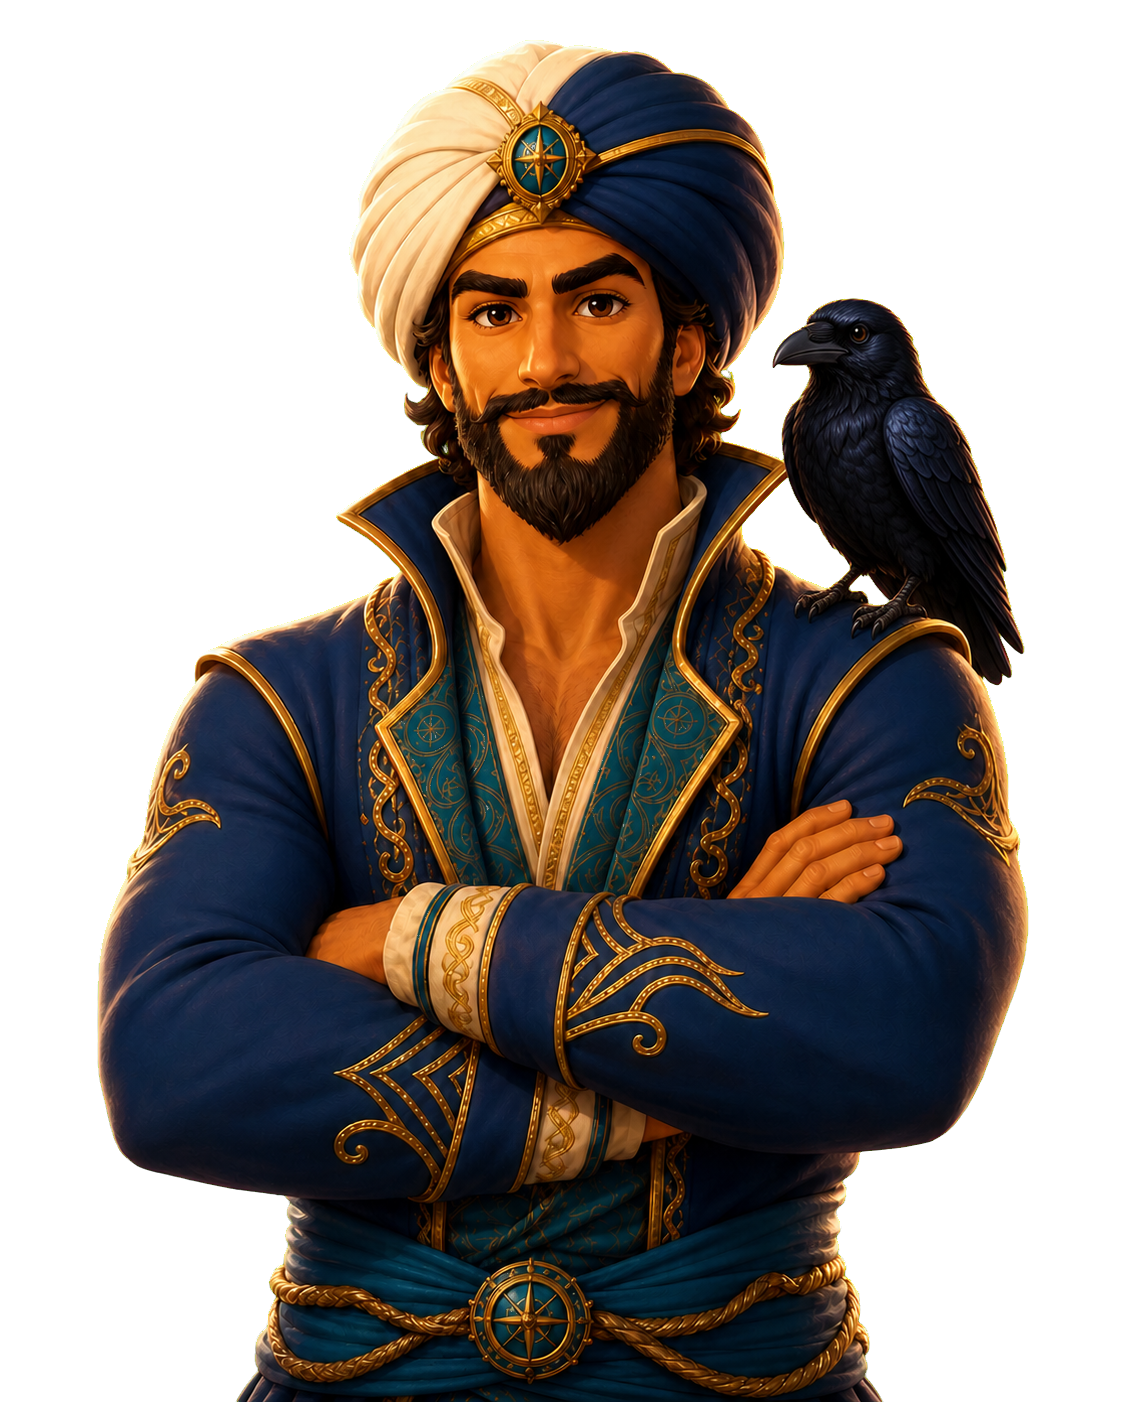
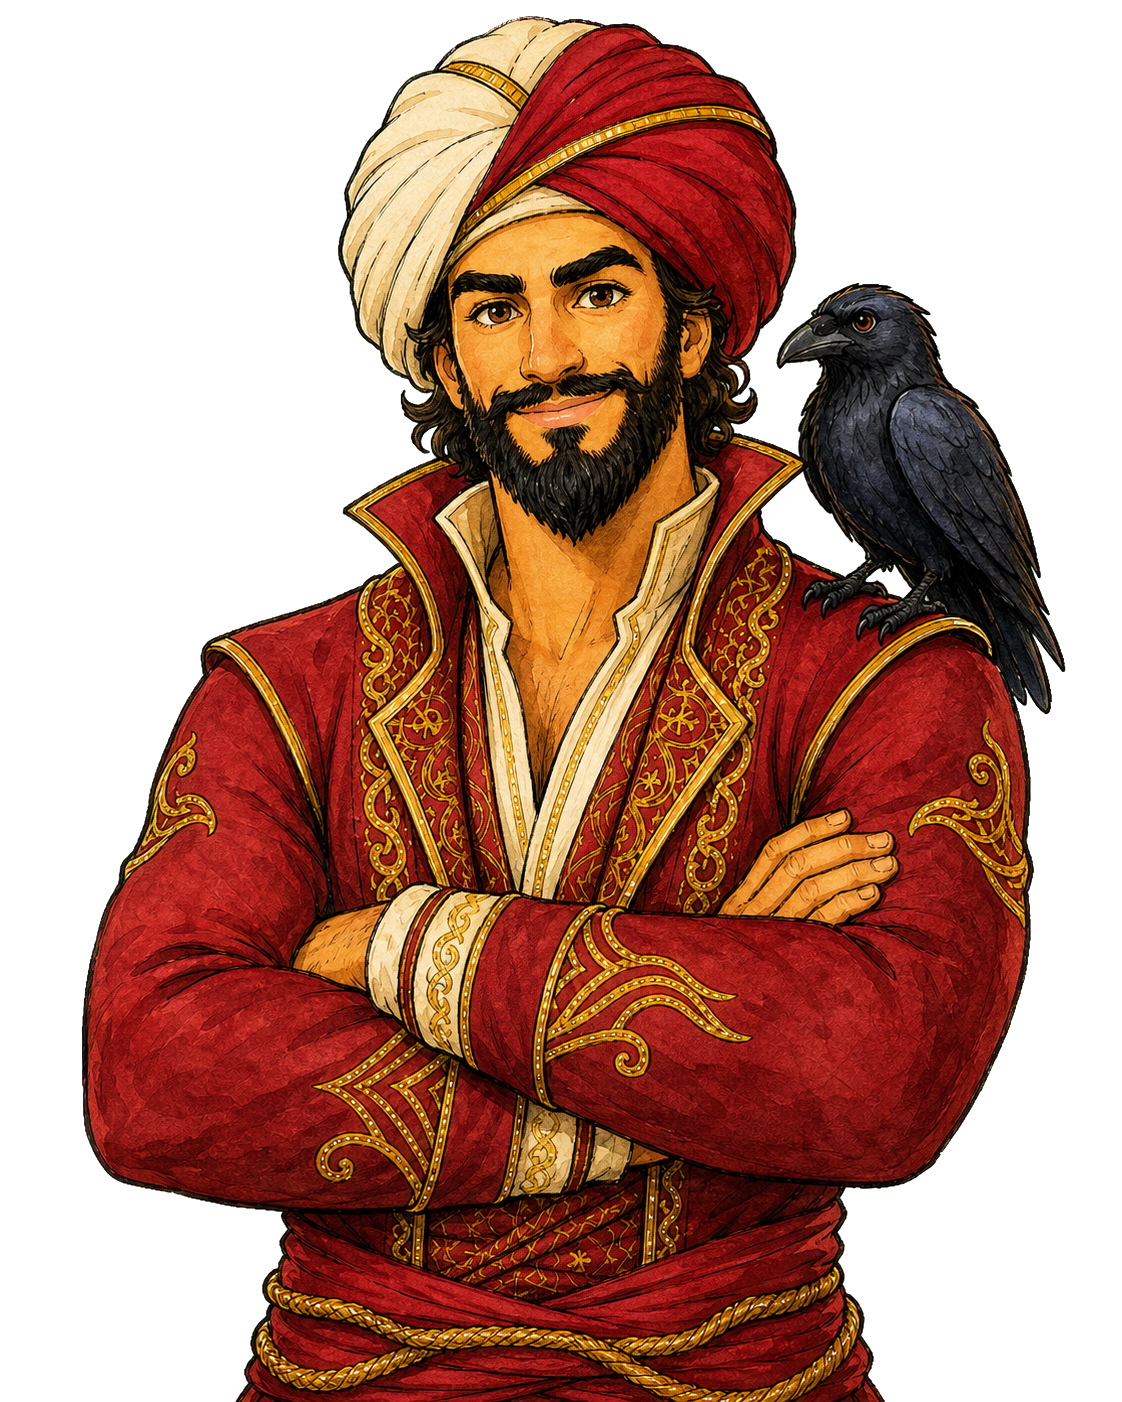
Add files via upload

diff --git a/intro.js b/intro.js
@@ -22,12 +22,14 @@ starImage.src = "./nasa-deep-star-map.jpg";
 
   // Maritime corridors use extra sea waypoints so the golden tracks avoid
   // continents, narrow capes and the sharp land-cutting chords of v8.10.
+  // Hand-plotted ocean passages. Extra waypoints keep the gold routes in
+  // navigable water instead of drawing straight lines across continents.
   const routes = [
-    [[-74,40.7],[-68,39],[-58,39],[-47,39],[-36,38],[-25,37],[-15,35.5],[-5.35,36.1],[1,37],[8,37.5],[13,38.2],[18,37.3],[23.7,37.9],[26.2,40],[28.98,41]],
-    [[28.98,41],[26.2,40],[24,36],[29,32],[32.5,31.2],[33,27],[35,20],[43,12.5],[50,14],[55.27,25.2],[59,24],[64,22],[69,20],[72.9,19.1]],
-    [[72.9,19.1],[78,15],[85,10],[92,6],[98,4],[103.8,1.3],[108,7],[114,12],[120,18],[126,25],[134,31],[139.7,35.7]],
-    [[-5.35,36.1],[-10,30],[-20,20],[-35,10],[-50,5],[-65,8],[-79.5,9],[-83,8],[-90,11],[-100,17],[-110,25],[-118.2,33.7]],
-    [[103.8,1.3],[103,-4],[105.7,-6.2],[107,-9],[105,-18],[108,-30],[116,-38],[132,-42],[146,-39],[151.2,-33.8],[160,-35],[168,-36],[174.8,-36.8]]
+    [[-74,40.7],[-70,39.5],[-62,39],[-52,38.5],[-42,38],[-32,37.5],[-22,36.5],[-12,35.7],[-5.35,36.1],[-3,36],[2,37],[8,36.8],[12.5,36.2],[15,35.7],[19,36.5],[22.5,36],[24.5,37.2],[25.5,39],[26.1,40.1],[27.5,40.7],[28.98,41]],
+    [[28.98,41],[27.5,40.7],[26.1,40.1],[25.4,38.6],[24.5,36.2],[27,34.2],[30.5,32.1],[32.3,31.3],[32.6,29.8],[33.2,27],[34.5,23],[36.5,18],[40.5,13.2],[43.2,12.5],[47,12.8],[51,14.5],[55,18],[58.5,20],[62,21],[66,20.5],[69.5,19.5],[72.9,19.1]],
+    [[72.9,19.1],[71.8,15],[73.5,10],[77,6],[80.5,5.5],[85,6],[90,6],[95,5],[100,3],[103.8,1.3],[108,3],[112,6],[115,10],[117.5,15],[120,20],[122,23],[125,26],[129,29],[133,32],[136.5,34],[139.7,35.7]],
+    [[-5.35,36.1],[-10,30],[-20,20],[-35,10],[-50,5],[-65,7],[-76,9],[-79.5,9],[-80.5,7],[-85,7],[-90,10],[-96,14],[-103,19],[-110,25],[-116,31],[-118.2,33.7]],
+    [[103.8,1.3],[104.7,-2],[105.8,-6.1],[110,-8],[115.8,-8.8],[120,-12],[125,-16],[121,-22],[116,-29],[114,-34],[118,-37],[126,-39],[137,-42],[147,-39],[153,-34],[158,-35],[166,-36],[174.8,-36.8]]
   ];
   const ports = [
     ["NEW YORK",-74,40.7],["GIBRALTAR",-5.35,36.1],["ISTANBUL",28.98,41],

diff --git a/index.html b/index.html
@@ -5,15 +5,15 @@
 <meta name="viewport" content="width=device-width,initial-scale=1,viewport-fit=cover">
 <meta name="theme-color" content="#071827">
 <title>Sinbad Marine</title>
-<link rel="manifest" href="./manifest.webmanifest?v=8113">
-<link rel="apple-touch-icon" href="./icon-192.png?v=8113">
-<link rel="stylesheet" href="./styles.css?v=8113">
+<link rel="manifest" href="./manifest.webmanifest?v=8115">
+<link rel="apple-touch-icon" href="./icon-192.png?v=8115">
+<link rel="stylesheet" href="./styles.css?v=8115">
 </head>
 <body class="auth-pending">
 <section id="cinematicIntro" class="cinematic-intro" aria-label="Sinbad Marine cinematic introduction">
   <canvas id="introCanvas"></canvas>
   <div class="intro-brand" id="introBrand">
-    <img class="sinbad-hero" src="./sinbad-hero.png?v=8113" alt="" aria-hidden="true">
+    <img class="sinbad-hero" src="./sinbad-hero.png?v=8115" alt="" aria-hidden="true">
     <div class="intro-word" aria-label="SINBAD">
       <span class="intro-letter" style="--i:0">S</span>
       <span class="intro-letter" style="--i:1">I</span>
@@ -69,7 +69,7 @@
 </dialog>
 <header class="topbar">
 <div class="brand"><div class="logo">⚓</div><div><h1>SINBAD MARINE</h1><small>Özgür Maceraperest Dostlar • Navigate Smarter. Command Better.</small></div></div>
-  <div class="version">● v8.11.3</div>
+  <div class="version">● v8.11.5</div>
 </header>
 
 
@@ -417,10 +417,10 @@ Captain Sinbad uses local Sinbad Marine data and keyword intelligence. Secure cl
 <footer>Sinbad Marine • Cinematic World Chart • One Bridge. Every Operation.</footer>
 
 
-<script src="./pilot-data.js?v=8113"></script>
-<script src="./route-data.js?v=8113"></script>
+<script src="./pilot-data.js?v=8115"></script>
+<script src="./route-data.js?v=8115"></script>
 <script src="https://cdn.jsdelivr.net/npm/@supabase/supabase-js@2"></script>
-<script src="./intro.js?v=8113"></script>
-<script src="./app.js?v=8113"></script>
+<script src="./intro.js?v=8115"></script>
+<script src="./app.js?v=8115"></script>
 </body>
 </html>

diff --git a/sw.js b/sw.js
@@ -1,4 +1,4 @@
-const CACHE='sinbad-marine-v8.11.3-integrated-bridge';
+const CACHE='sinbad-marine-v8.11.5-storybook-sinbad-sea-routes';
 const ASSETS=['./','./index.html','./styles.css','./intro.js','./app.js','./pilot-data.js','./route-data.js','./manifest.webmanifest','./icon-192.png','./icon-512.png','./nasa-blue-marble.png','./nasa-deep-star-map.jpg','./sinbad-hero.png'];
 self.addEventListener('install',event=>{
   self.skipWaiting();

diff --git a/UPLOAD_ALL_FILES_TR.md b/UPLOAD_ALL_FILES_TR.md
@@ -1,4 +1,4 @@
-# Sinbad Marine v8.11.3
+# Sinbad Marine v8.11.5
 
 Bu paket intro ile yönetim uygulamasını tekrar tek sürümde birleştirir.
 
@@ -7,7 +7,7 @@ mevcut dosyaların değiştirilmesine izin verin. Klasör oluşturmayın.
 
 Canlı kontrol:
 
-https://varolcolak2013-stack.github.io/atlas-marine-os/?bridge=8113
+https://varolcolak2013-stack.github.io/atlas-marine-os/?sinbad=8115
 
 Beklenen akış:
 
